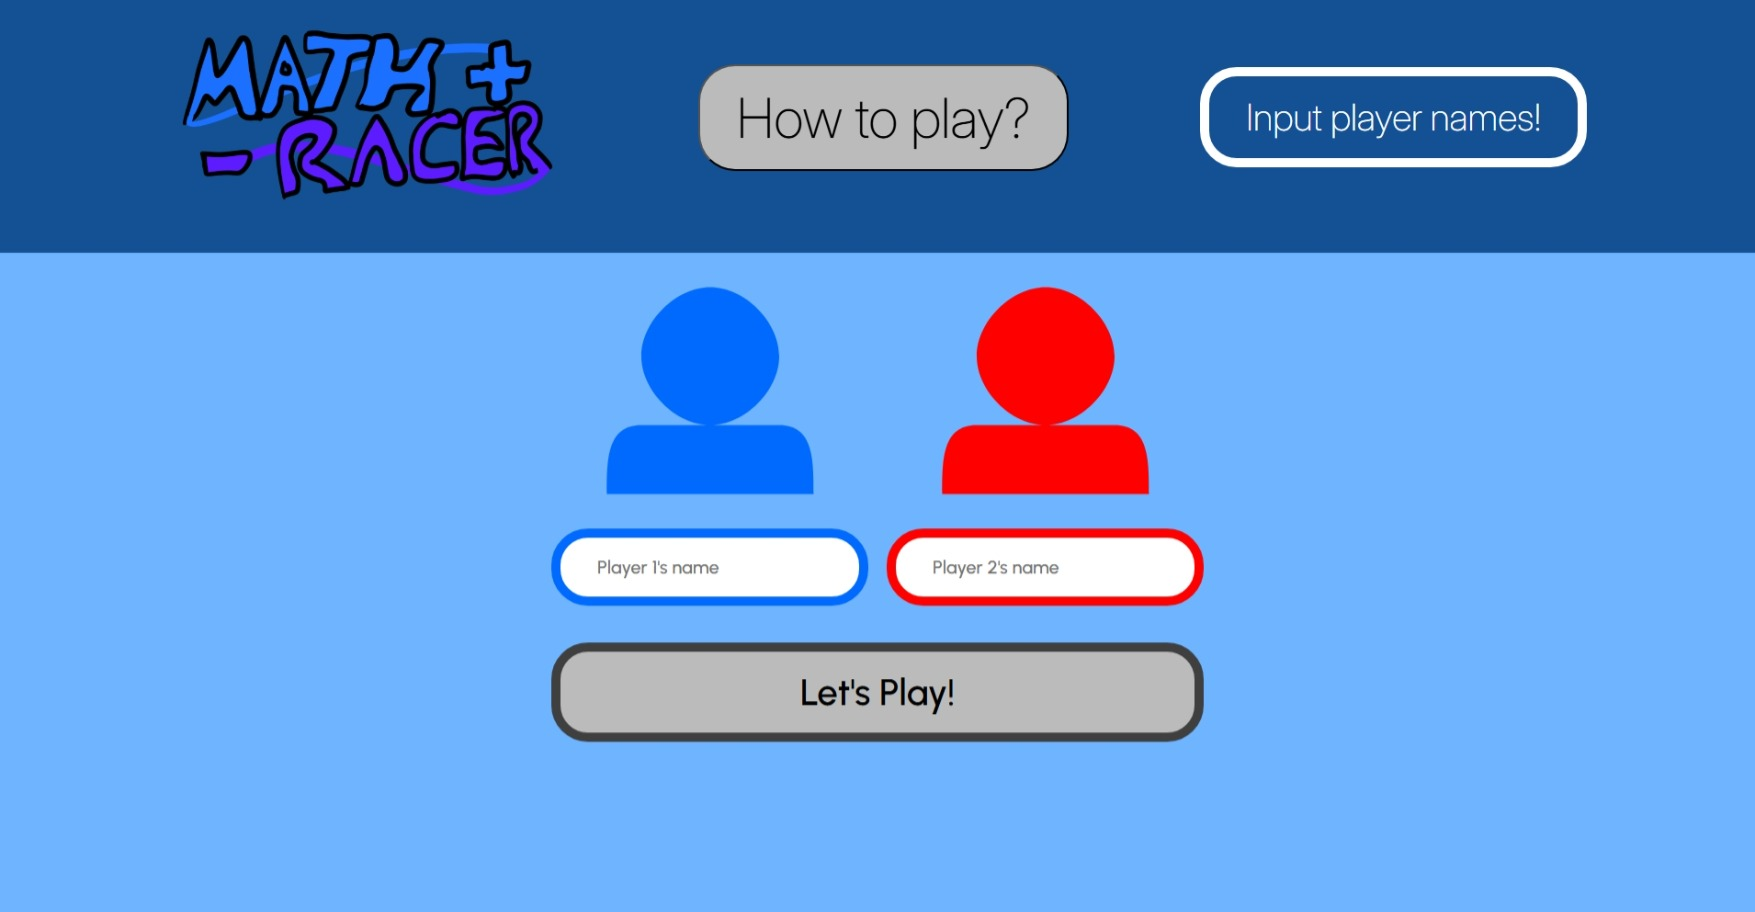
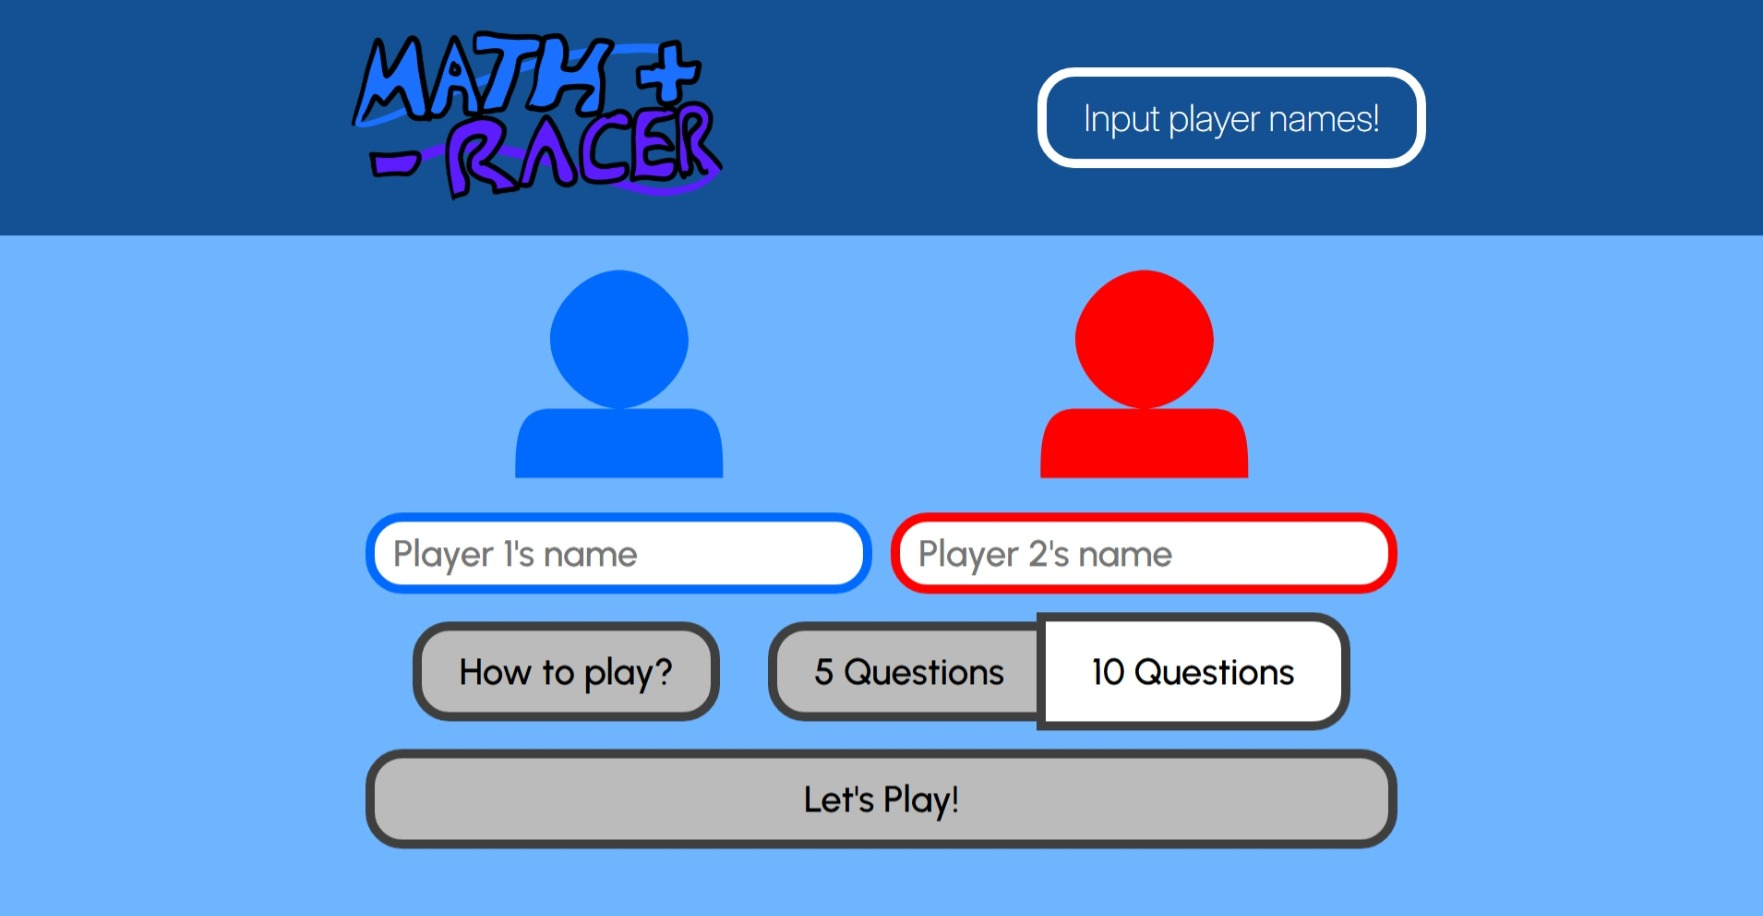
Revert results screen to vertical layout
flex-wrap layout didn't work well with longer player names

diff --git a/src/styles.css b/src/styles.css
@@ -334,9 +334,9 @@ header {
 .resultsCard {
   background-color: rgb(19, 81, 148);
   display: flex;
-  justify-content: space-around;
+  flex-direction: column;
+  justify-content: center;
   align-items: center;
-  flex-wrap: wrap;
   gap: 2rem;
   padding: 1rem 2rem;
   margin: 1rem 2rem;
@@ -344,7 +344,7 @@ header {
 }
 
 .playerResults {
-  max-width: 40rem;
+  width: 100%;
   padding: 1rem 1rem;
   display: grid;
   grid-template-columns: 1fr 4fr;

diff --git a/README.md b/README.md
@@ -1,6 +1,6 @@
 # MathRacer
 
-Inspired by [TypeRacer](https://play.typeracer.com/), MathRacer is a fast-paced game where two players compete to complete 10 simple maths questions in the shortest time possible!
+Inspired by [TypeRacer](https://play.typeracer.com/), MathRacer is a fast-paced game where two players compete to answer several simple maths questions in the shortest time possible!
 
 Live demo link: https://j0e-quan.github.io/mathracer/
 
@@ -15,10 +15,10 @@ Live demo link: https://j0e-quan.github.io/mathracer/
 
 ## Key features:
 
-- Players can input their own names
+- Players can input their own names and adjust the number of questions per round
 - Tutorial menu helps to familiarize players with the game
 - Large-sized UI improves visibility
-- The game also features keyboard support
+- The game features keyboard support
 
 ## Credits:
 
@@ -28,8 +28,9 @@ Live demo link: https://j0e-quan.github.io/mathracer/
 ## Gallery:
 
 ![picture showing initial state of the game](./readme-assets/initial.jpeg)
-![picture showing gameplay](./readme-assets/gameplay.jpeg)
+![picture showing gameplay with 10 questions per round](./readme-assets/gameplay.jpeg)
 ![picture showing a transition screen](./readme-assets/transition.jpeg)
+![picture showing gameplay with 5 questions per round](./readme-assets/gameplay-5q.jpeg)
 ![picture showing results](./readme-assets/result.jpeg)
 
 ## Getting started:
